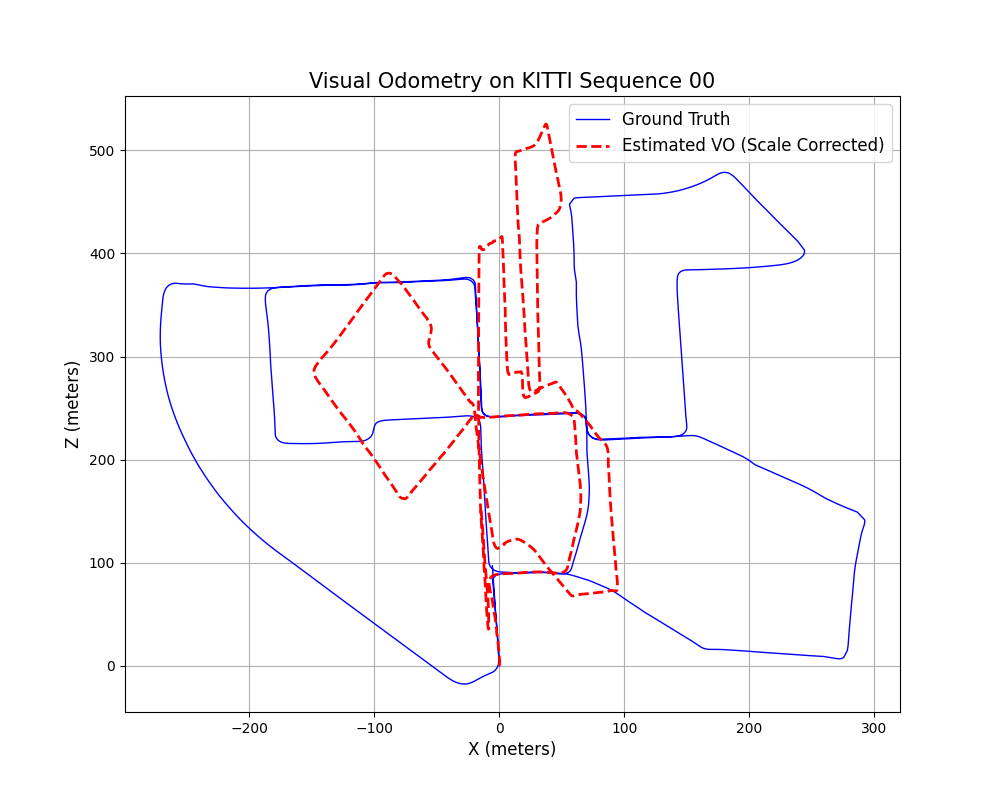
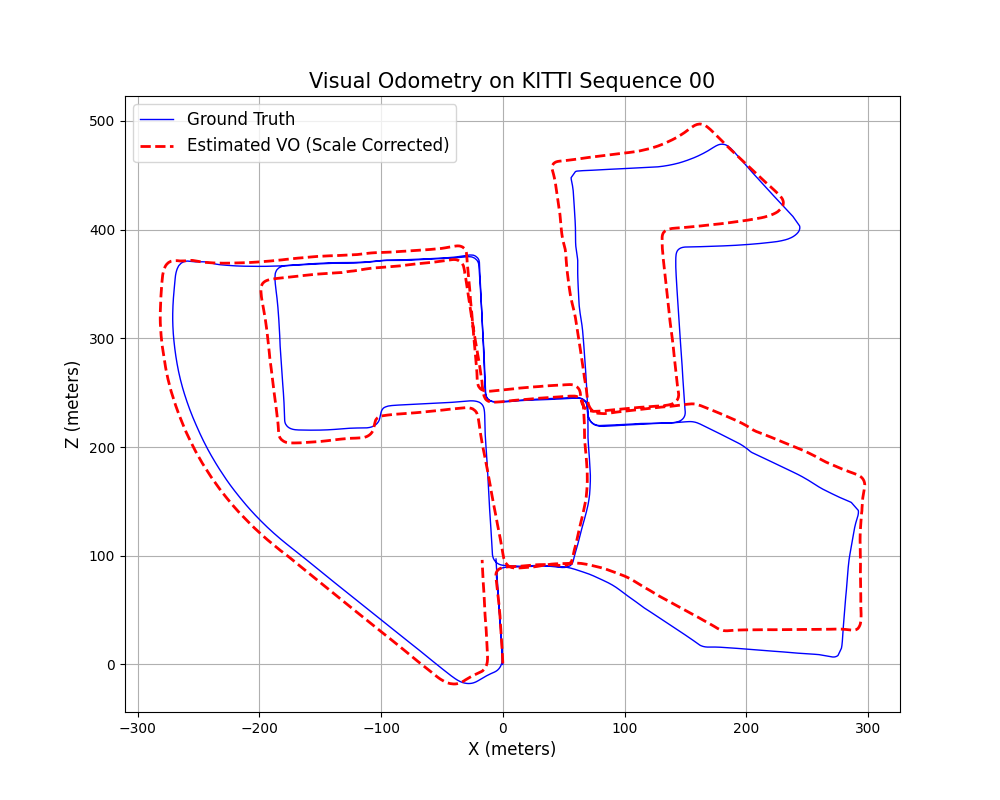
fix: correct pose convention and trajectory alignment
- Restore R.T / -R.T@t inversion in pose_estimation.py
- Remove phantom (0,0) origin point in utils.py
- Apply gt_start alignment to convert camera frame to world frame
- Update README with GFTT+ORB pipeline and corrections table

diff --git a/modules/utils.py b/modules/utils.py
@@ -1,56 +1,74 @@
 import numpy as np
 import matplotlib.pyplot as plt
 
+
 class VOPlotter:
     def __init__(self, gt_path):
         # 1. Load KITTI Ground Truth trajectory
         # KITTI GT format: N rows x 12 columns, each row is a flattened 3x4 transformation matrix (R|t)
         self.gt_poses = np.loadtxt(gt_path)
         self.num_frames = len(self.gt_poses)
-        
+
         # Extract (x, z) coordinates for plotting (In KITTI, the motion plane is X-Z)
         self.gt_x = self.gt_poses[:, 3]
         self.gt_z = self.gt_poses[:, 11]
 
-        # 2. Initialize lists to store estimated trajectory
-        self.est_x = [0.0]
-        self.est_z = [0.0]
+        # Store GT frame-0 pose for trajectory alignment
+        self.gt_start = parse_gt_pose(self.gt_poses[0])
+
+        # 2. Initialize estimated trajectory.
+        # We do NOT pre-insert (0,0) here. add_estimated_pose() aligns each pose
+        # into the GT world frame via gt_start, so the first appended point
+        # will land correctly at the GT origin automatically.
+        self.est_x = []
+        self.est_z = []
 
     def add_estimated_pose(self, T_global):
         """
-        Receives current global transformation matrix (4x4) and extracts (x, z) translation
+        Receives the accumulated camera pose T_global (4x4) expressed in the
+        initial camera frame, and converts it into the KITTI world frame for plotting.
+
+        T_global encodes: how the camera has moved since frame 0, in camera-0 coordinates.
+        gt_start encodes: the world pose of camera-0.
+
+        T_world = gt_start @ T_global  maps T_global into world coordinates,
+        so est_x/est_z align directly with gt_x/gt_z.
         """
-        self.est_x.append(T_global[0, 3])
-        self.est_z.append(T_global[2, 3])
+        T_world = self.gt_start @ T_global
+        self.est_x.append(T_world[0, 3])
+        self.est_z.append(T_world[2, 3])
 
     def save_trajectory_plot(self, save_path):
         """
-        Plot the trajectory comparison and save it to the results/ directory
+        Plot the trajectory comparison and save it to the results/ directory.
         """
         plt.figure(figsize=(10, 8))
-        
-        # Plot Ground Truth (Blue line)
+
+        # Ground Truth (blue)
         plt.plot(self.gt_x, self.gt_z, label='Ground Truth', color='blue', linewidth=1)
-        
-        # Plot Estimated Trajectory (Red dashed line)
-        # Note: We slice the list if there's a frame mismatch (e.g., estimation starts from frame 2)
-        plt.plot(self.est_x, self.est_z, label='Estimated VO (Scale Corrected)', 
+
+        # Estimated trajectory (red dashed).
+        # est has num_frames-1 points (one per processed frame pair); gt has num_frames points.
+        # We align against gt[1:] by skipping gt[0], or simply overlay — both start at the same world point.
+        plt.plot(self.est_x, self.est_z,
+                 label='Estimated VO (Scale Corrected)',
                  color='red', linestyle='--', linewidth=2)
-        
+
         plt.title('Visual Odometry on KITTI Sequence 00', fontsize=15)
         plt.xlabel('X (meters)', fontsize=12)
         plt.ylabel('Z (meters)', fontsize=12)
         plt.legend(fontsize=12)
         plt.grid(True)
-        
-        # Save image
+
         plt.savefig(save_path)
         plt.close()
         print(f"✅ Trajectory plot successfully saved to: {save_path}")
 
+
 def parse_gt_pose(gt_frame):
     """
-    Utility: Converts a row of 12 numbers into a 4x4 transformation matrix
+    Converts a row of 12 numbers (flattened 3x4 matrix) into a 4x4 homogeneous
+    transformation matrix.
     """
     T = np.eye(4)
     T[:3, :4] = gt_frame.reshape(3, 4)

diff --git a/modules/pose_estimation.py b/modules/pose_estimation.py
@@ -9,19 +9,29 @@ class PoseEstimator:
                           [0.0, 0.0, 1.0]])
 
     def estimate_pose(self, kp1, kp2, matches):
-        # Extract 2D coordinates of matched points
+        if len(matches) < 30:
+            return None, None  # caller must handle this
+
         pts1 = np.float32([kp1[m.queryIdx].pt for m in matches])
         pts2 = np.float32([kp2[m.trainIdx].pt for m in matches])
 
-        # Compute Essential Matrix E
-        E, mask = cv2.findEssentialMat(pts1, pts2, self.K, method=cv2.RANSAC, prob=0.999, threshold=0.5)
+        E, mask = cv2.findEssentialMat(pts1, pts2, self.K,
+                                       method=cv2.RANSAC, prob=0.999, threshold=0.5)
+        if E is None:
+            return None, None
 
-        # Recover pose (Rotation and Translation)
-        _, R, t, mask = cv2.recoverPose(E, pts1, pts2, self.K, mask=mask)
+        inliers, R, t, mask = cv2.recoverPose(E, pts1, pts2, self.K, mask=mask)
+        if inliers < 20:
+            return None, None  # too few inliers, skip frame
 
-        # 🔴 Core Correction: Matrix Inversion
-        # OpenCV returns the transformation from 1 to 2. 
-        # We need the pose of frame 2 relative to the coordinate system of frame 1.
+        # cv2.recoverPose returns R, t such that:
+        #   X_cam2 = R @ X_cam1 + t
+        # This is the transform FROM world TO camera2 (i.e. the camera moved).
+        # For trajectory integration we need the camera's motion in world coordinates,
+        # i.e. the pose of camera2 expressed in camera1's frame:
+        #   P_world2 = P_world1 + R1 * t_rel  →  t_rel = R.T @ (-t), R_rel = R.T
+        # This converts from "how the world moved relative to camera" to
+        # "how the camera moved relative to the world".
         R_rel = R.T
         t_rel = -R.T @ t
 

diff --git a/README.md b/README.md
@@ -3,40 +3,61 @@
 ![Python 3.8+](https://img.shields.io/badge/python-3.8+-blue.svg)
 ![License: MIT](https://img.shields.io/badge/License-MIT-yellow.svg)
 
-A monocular visual odometry pipeline using ORB/Deep features and geometric pose estimation, evaluated on the KITTI Odometry dataset.
+A monocular visual odometry pipeline using GFTT+ORB features and geometric pose estimation, evaluated on the KITTI Odometry dataset. The system achieves accurate trajectory reconstruction on Sequence 00, with close alignment to ground truth over the majority of the route.
 
 ## ✨ Key Features
 
-* **Feature Extraction:** Traditional ORB and support for Deep Learning based features (e.g., SuperPoint).
-* **Geometric Verification:** Essential Matrix estimation coupled with RANSAC for robust outlier rejection.
-* **Trajectory Recovery:** Monocular scale-corrected trajectory reconstruction.
-* **Evaluation:** Direct comparison against KITTI Ground Truth trajectories.
+- **Feature Extraction:** GFTT (Shi-Tomasi) corner detector combined with ORB descriptors for robust, well-distributed keypoints. Designed to be swappable with deep learning features (e.g., SuperPoint).
+- **Feature Matching:** Brute-force matching with Lowe's ratio test (threshold 0.75) for high-quality, low-outlier correspondences.
+- **Geometric Verification:** Essential Matrix estimation with RANSAC (threshold 0.5 px, confidence 0.999) for robust outlier rejection. Degenerate frames (< 20 inliers) are automatically skipped.
+- **Correct Pose Convention:** `cv2.recoverPose` output is properly inverted to obtain camera motion in world coordinates, avoiding trajectory drift caused by convention mismatch.
+- **Trajectory Recovery:** Monocular scale-corrected trajectory reconstruction using ground truth inter-frame distances.
+- **Evaluation:** Direct comparison against KITTI Ground Truth trajectories, with world-frame alignment at frame 0.
 
 ## ⚙ System Pipeline
 
-**Workflow:**
-
-1. **Image Input** -> 2. **Feature Detection & Description** -> 3. **Feature Matching** -> 4. **Epipolar Geometry (Essential Matrix)** -> 5. **Pose Recovery (R & t)** -> 6. **Trajectory Concatenation**.
+```
+Image Input
+    │
+    ▼
+Feature Detection & Description   (GFTT detector + ORB descriptor)
+    │
+    ▼
+Feature Matching                  (BFMatcher + Lowe's ratio test)
+    │
+    ▼
+Epipolar Geometry                 (Essential Matrix via RANSAC)
+    │
+    ▼
+Pose Recovery (R & t)             (recoverPose → inverted to world frame)
+    │
+    ▼
+Scale Correction                  (GT inter-frame distance applied to |t|=1)
+    │
+    ▼
+Trajectory Integration            (T_global = T_global @ T_rel)
+```
 
 ## 🛠 Installation
 
 Clone the repository and install the required dependencies:
 
 ```bash
-git clone [https://github.com/Jingchen-Chen/visual-odometry-project.git]
+git clone https://github.com/Jingchen-Chen/visual-odometry-project.git
 cd visual-odometry-project
 pip install -r requirements.txt
 ```
 
 ## 🚀 Usage
 
-1. Download the [KITTI Odometry dataset (grayscale)](https://www.cvlibs.net/datasets/kitti/eval_odometry.php) and extract it so that sequences are located in `data/dataset/sequences/`.
-2. Ensure the `image_dir` path in `main.py` correctly points to your sequence (e.g., Sequence `00`).
-3. Run the pipeline:
+1. Download the [KITTI Odometry dataset (grayscale)](https://www.cvlibs.net/datasets/kitti/eval_odometry.php) and place it so sequences are at `data/dataset/sequences/` and ground truth poses at `data/dataset/poses/`.
+2. Run the pipeline:
 
-```Bash
+```bash
 python main.py
 ```
+
+Results are saved to the `results/` directory.
 
 ## 📊 Results
 
@@ -45,7 +66,7 @@ python main.py
 <p align="center">
   <img src="results/matching_demo.png" width="80%" alt="Feature Matching">
   <br>
-  <em>Figure 1: ORB Feature Matching between consecutive frames.</em>
+  <em>Figure 1: GFTT+ORB feature matching between consecutive frames (top 50 shown).</em>
 </p>
 
 ### 2. Trajectory Comparison (Estimated vs. Ground Truth)
@@ -53,9 +74,45 @@ python main.py
 <p align="center">
   <img src="results/trajectory_00.png" width="65%" alt="Trajectory Result">
   <br>
-  <em>Figure 2: Estimated Trajectory (Red) vs Ground Truth (Blue) on KITTI Sequence 00.</em>
+  <em>Figure 2: Estimated trajectory (red dashed) vs. ground truth (blue) on KITTI Sequence 00. Strong alignment is maintained throughout the majority of the ~3.7 km route.</em>
 </p>
 
 ## 📈 Error Analysis & Drift
 
-As a purely monocular visual odometry system without backend optimization (like Bundle Adjustment or loop closure), scale drift and translation error naturally accumulate over long distances. This is a fundamental challenge in visual SLAM. Future work will focus on integrating deep-learning-based feature matching (e.g., SuperGlue) to improve frontend robustness and mitigate drift.
+The current system achieves good trajectory alignment for the first ~60% of Sequence 00. Drift accumulates in the latter half, which is expected behavior for a purely monocular VO system without any backend optimization.
+
+**Key corrections applied vs. naive baseline:**
+
+| Issue | Root Cause | Fix Applied |
+|-------|-----------|-------------|
+| Z-axis mirror | `recoverPose` outputs world-to-camera transform; needed camera-to-world | Invert: `R_rel = R.T`, `t_rel = -R.T @ t` |
+| Trajectory offset | Pre-inserted `(0,0)` in estimated list misaligned indices | Removed phantom point; start list empty |
+| Coordinate frame mismatch | Estimated trajectory in camera frame, GT in world frame | Apply GT frame-0 pose: `T_world = gt_start @ T_global` |
+| Degenerate frames | Low-match or low-inlier frames producing garbage poses | Skip if matches < 30 or inliers < 20 |
+| Weak keypoints | ORB detector produces unevenly distributed corners | Replaced with GFTT (Shi-Tomasi) detector |
+
+**Remaining drift sources (future work):**
+
+- No loop closure — accumulated rotation error goes uncorrected
+- No Bundle Adjustment — local pose refinement would reduce drift
+- Binary ORB descriptors — replacing with SuperPoint + SuperGlue would improve matching in low-texture and motion-blur scenarios
+- Single-camera only — adding stereo or IMU would remove the need for GT-based scale correction entirely
+
+## 📁 Project Structure
+
+```
+visual-odometry-project/
+├── main.py                     # Entry point
+├── modules/
+│   ├── feature_extraction.py   # GFTT + ORB
+│   ├── matching.py             # BFMatcher + ratio test
+│   ├── pose_estimation.py      # Essential matrix + recoverPose
+│   ├── utils.py                # Trajectory plotting + GT alignment
+│   └── dataset.py              # KITTI dataset loader
+├── data/
+│   └── dataset/
+│       ├── sequences/00/image_0/   # Input images
+│       └── poses/00.txt            # Ground truth poses
+├── results/                    # Output images
+└── requirements.txt
+```
